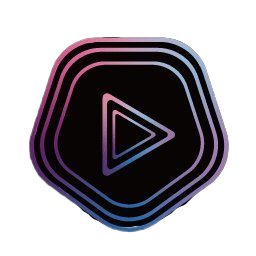
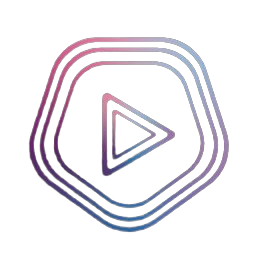
ロゴを変更、faviconに設定

diff --git a/projects/interface/index.html b/projects/interface/index.html
@@ -2,7 +2,7 @@
 <html lang="en">
   <head>
     <meta charset="UTF-8" />
-    <link rel="icon" type="image/svg+xml" href="/src/favicon.svg" />
+    <link rel="icon" type="image/svg+xml" href="/public/penta-core.png" />
     <meta name="viewport" content="width=device-width, initial-scale=1.0" />
     <title>Vite App</title>
   </head>
